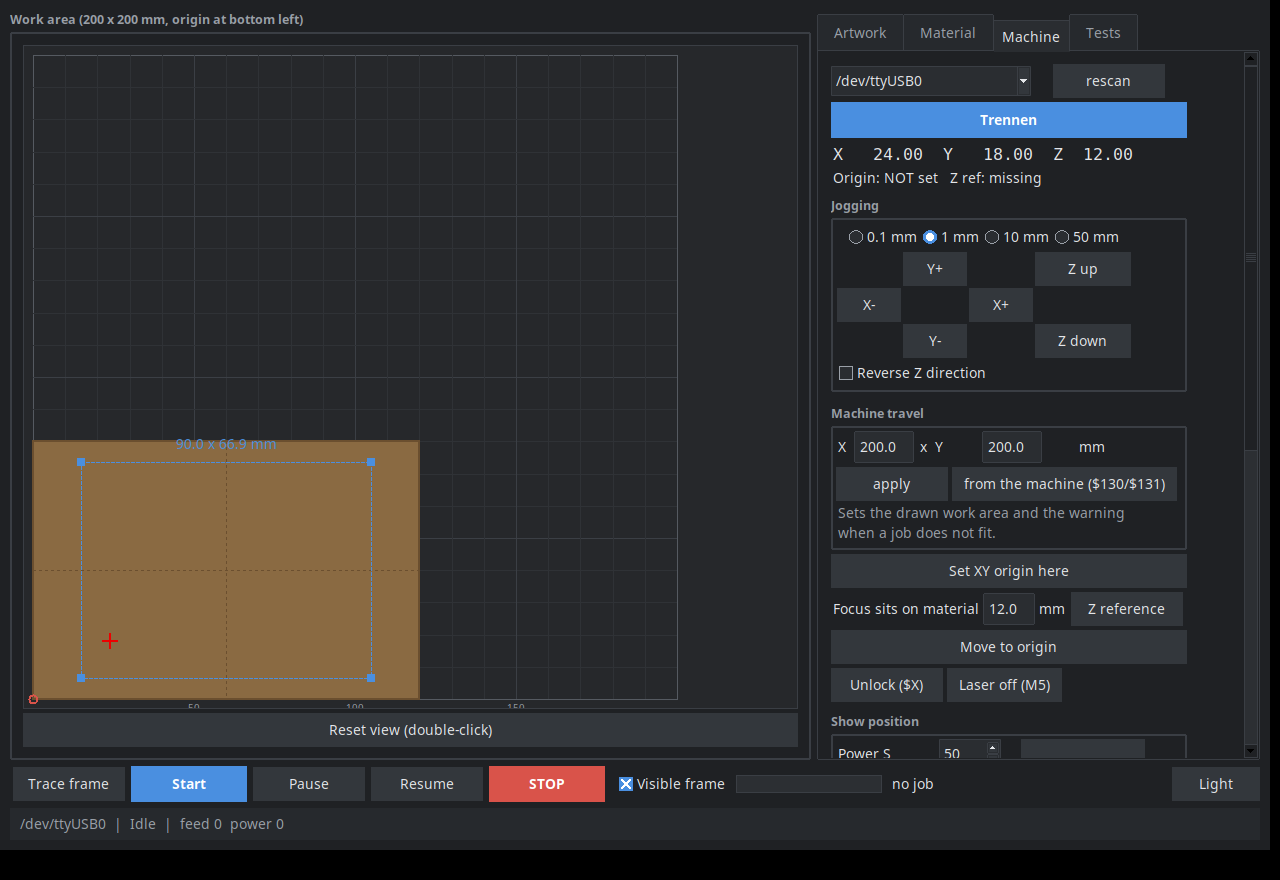
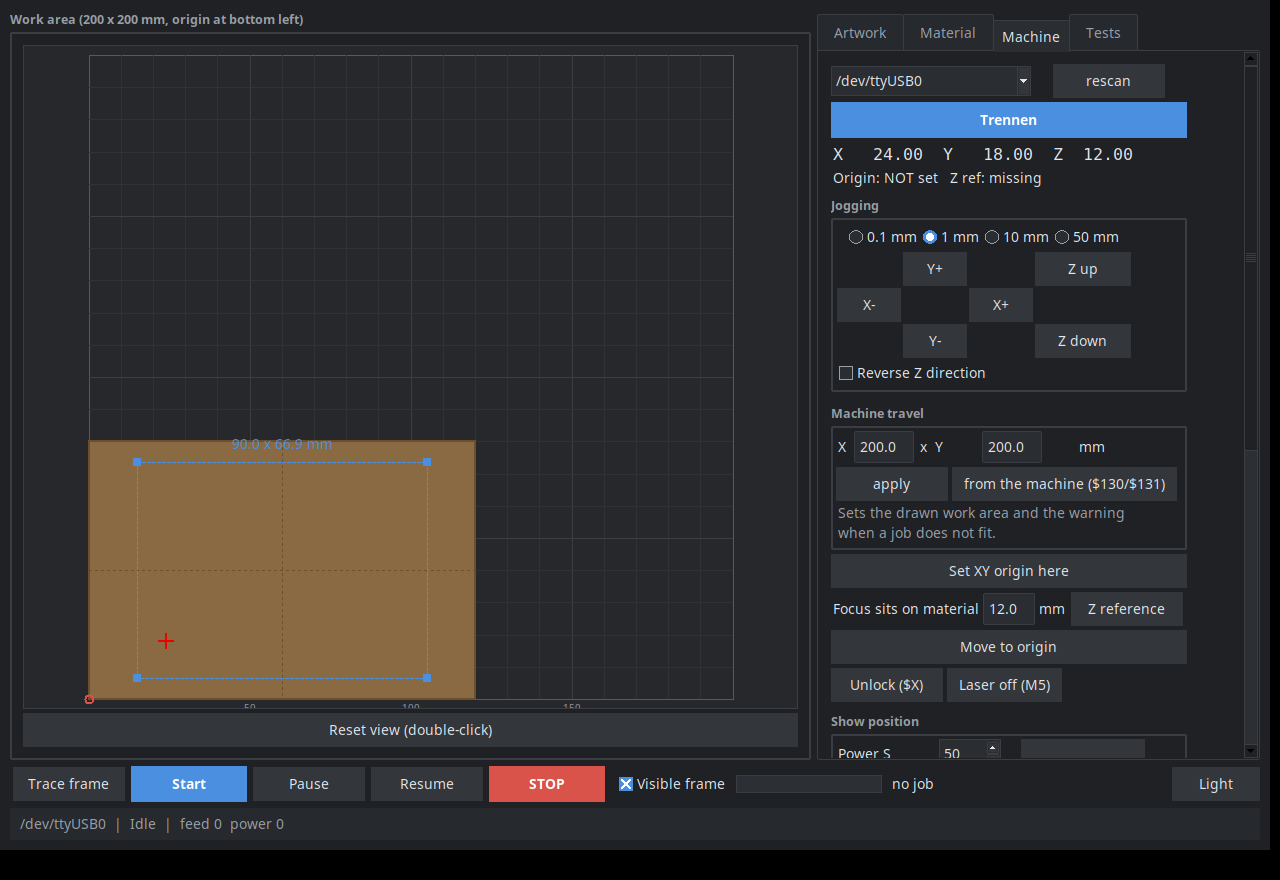
Arbeitsflaeche nicht mehr quadratisch, Grenzpruefung richtig
- die gezeichnete Flaeche ist so breit und hoch wie der Verfahrweg; bei
  einer 300x180-Maschine sah ein passendes Brett vorher aus, als rage es
  heraus, und oben blieb ein leerer Streifen
- Massstab passt nach Breite UND Hoehe, Ansicht mittig
- vor dem Start wird geprueft, wo der Kopf wirklich hin muss, statt die
  blosse Spanne zu nehmen. Die Spanne schluckte das abschliessende
  'G0 X0 Y0' mit und lehnte damit Jobs ab, die laengst passten - waehrend
  die Rahmenfahrt durchging, weil deren G-Code nicht zum Nullpunkt
  zurueckfaehrt. Die Meldung nennt jetzt die gebrauchten Koordinaten.

Changed region(s): [[0.0, 0.4909, 0.0938, 0.7977], [0.3125, 0.4909, 0.375, 0.7977], [0.125, 0.4909, 0.25, 0.5216]]

diff --git a/laserwerk.py b/laserwerk.py
@@ -1324,11 +1324,18 @@ class App:
         # Unterscheidung, deshalb sagt 'rahmen' ausdruecklich Bescheid.
         if not self._need(zero=not rahmen):
             return
+        # Nicht die Spanne pruefen, sondern wo der Kopf wirklich hin muss.
+        # Die Spanne verschweigt einen Job, der weit draussen liegt, und
+        # verbietet einen, der nur zum Nullpunkt zurueckfaehrt.
         x0, x1, y0, y1 = J.extent(lines)
-        if x1 - x0 > self.cfg["x_max"] or y1 - y0 > self.cfg["y_max"]:
+        xm, ym = float(self.cfg["x_max"]), float(self.cfg["y_max"])
+        if x1 > xm + 0.05 or y1 > ym + 0.05 or x0 < -0.05 or y0 < -0.05:
             messagebox.showerror(T("Zu groß"),
-                T("Spanne {b:.0f} x {h:.0f} mm passt nicht in den Verfahrweg."
-                  ).format(b=x1 - x0, h=y1 - y0))
+                T("Der Job braucht X {x0:.1f} .. {x1:.1f} und "
+                  "Y {y0:.1f} .. {y1:.1f} mm.\n\n"
+                  "Der Verfahrweg ist 0 .. {xm:.0f} und 0 .. {ym:.0f} mm "
+                  "(Reiter Maschine, 'Verfahrweg der Maschine').").format(
+                    x0=x0, x1=x1, y0=y0, y1=y1, xm=xm, ym=ym))
             return
         if confirm:
             t = ""
@@ -1616,7 +1623,14 @@ class App:
 
     def _scale(self):
         w, h = self._cv()
-        return (min(w, h) - 20) / self.area * self.zoom
+        return self._grundmass() * self.zoom
+
+    def _grundmass(self):
+        """Massstab, bei dem der ganze Verfahrweg ins Fenster passt - nach
+        Breite UND Hoehe, sonst verschenkt eine flache Maschine die Haelfte."""
+        w, h = self._cv()
+        return min((w - 20) / max(10.0, float(self.cfg["x_max"])),
+                   (h - 20) / max(10.0, float(self.cfg["y_max"])))
 
     def _resized(self, e):
         """Fenster groesser: Ansicht unten links verankert lassen."""
@@ -1640,7 +1654,7 @@ class App:
         if neu == self.zoom:
             return
         s1 = self._scale()
-        s2 = (min(*self._cv()) - 20) / self.area * neu
+        s2 = self._grundmass() * neu
         mx, my = (e.x - self.ox) / s1, (self.oy - e.y) / s1
         self.zoom = neu
         self.ox, self.oy = e.x - mx * s2, e.y + my * s2
@@ -1659,27 +1673,40 @@ class App:
 
     def reset_view(self):
         self.zoom = 1.0
-        self.ox, self.oy = 10, self._cv()[1] - 10
+        w, h = self._cv()
+        s = self._grundmass()
+        # mittig einpassen statt unten links kleben - bei einer flachen
+        # Maschine bleibt sonst oben ein breiter leerer Streifen
+        self.ox = max(10, (w - float(self.cfg["x_max"]) * s) / 2)
+        self.oy = h - max(10, (h - float(self.cfg["y_max"]) * s) / 2)
         self._draw()
 
     def _draw(self):
         cv = self.cv
         cv.delete("all")
+        # Die Flaeche ist so breit und so hoch wie der Verfahrweg - nicht
+        # quadratisch. Sonst sieht ein Brett aus, als passe es nicht.
+        wx, wy = float(self.cfg["x_max"]), float(self.cfg["y_max"])
         x0, y0 = self._mm(0, 0)
-        x1, y1 = self._mm(self.area, self.area)
+        x1, y1 = self._mm(wx, wy)
         cv.create_rectangle(x0, y1, x1, y0, outline=S.CANVAS_EDGE)
         s = self._scale()
         if s >= 6:                      # weit hineingezoomt: 1-mm-Raster dazu
-            for m in range(0, int(self.area) + 1):
-                if m % 10 == 0:
-                    continue
-                a, _ = self._mm(m, 0); cv.create_line(a, y0, a, y1, fill=S.CANVAS_GRID)
-                _, b = self._mm(0, m); cv.create_line(x0, b, x1, b, fill=S.CANVAS_GRID)
-        for m in range(10, int(self.area), 10):
-            c = S.CANVAS_GRID if m % 50 else S.CANVAS_GRID2
-            a, _ = self._mm(m, 0); cv.create_line(a, y0, a, y1, fill=c)
-            _, b = self._mm(0, m); cv.create_line(x0, b, x1, b, fill=c)
-        for m in range(50, int(self.area), 50):
+            for m in range(0, int(wx) + 1):
+                if m % 10:
+                    a, _ = self._mm(m, 0)
+                    cv.create_line(a, y0, a, y1, fill=S.CANVAS_GRID)
+            for m in range(0, int(wy) + 1):
+                if m % 10:
+                    _, b = self._mm(0, m)
+                    cv.create_line(x0, b, x1, b, fill=S.CANVAS_GRID)
+        for m in range(10, int(wx), 10):
+            a, _ = self._mm(m, 0)
+            cv.create_line(a, y0, a, y1, fill=S.CANVAS_GRID if m % 50 else S.CANVAS_GRID2)
+        for m in range(10, int(wy), 10):
+            _, b = self._mm(0, m)
+            cv.create_line(x0, b, x1, b, fill=S.CANVAS_GRID if m % 50 else S.CANVAS_GRID2)
+        for m in range(50, int(wx), 50):
             a, _ = self._mm(m, 0); cv.create_text(a, y0 + 1, text=str(m), anchor="n", fill=S.MUTED, font=("sans", 7))
         if self.v_board.get():
             W, H = float(self.v_bw.get()), float(self.v_bh.get())

diff --git a/lw_text.py b/lw_text.py
@@ -630,4 +630,10 @@ EN = {
     "Werte prüfen.": "Check the values.",
     "Graustufentest: {n} Leistungen x {s} Stufen, {b:.0f} x {h:.0f} mm":
         "Greyscale test: {n} power levels x {s} steps, {b:.0f} x {h:.0f} mm",
+    "Der Job braucht X {x0:.1f} .. {x1:.1f} und Y {y0:.1f} .. {y1:.1f} mm.\n\n"
+    "Der Verfahrweg ist 0 .. {xm:.0f} und 0 .. {ym:.0f} mm "
+    "(Reiter Maschine, 'Verfahrweg der Maschine').":
+        "The job needs X {x0:.1f} .. {x1:.1f} and Y {y0:.1f} .. {y1:.1f} mm.\n\n"
+        "The machine travel is 0 .. {xm:.0f} and 0 .. {ym:.0f} mm "
+        "(Machine tab, 'Machine travel').",
 }
